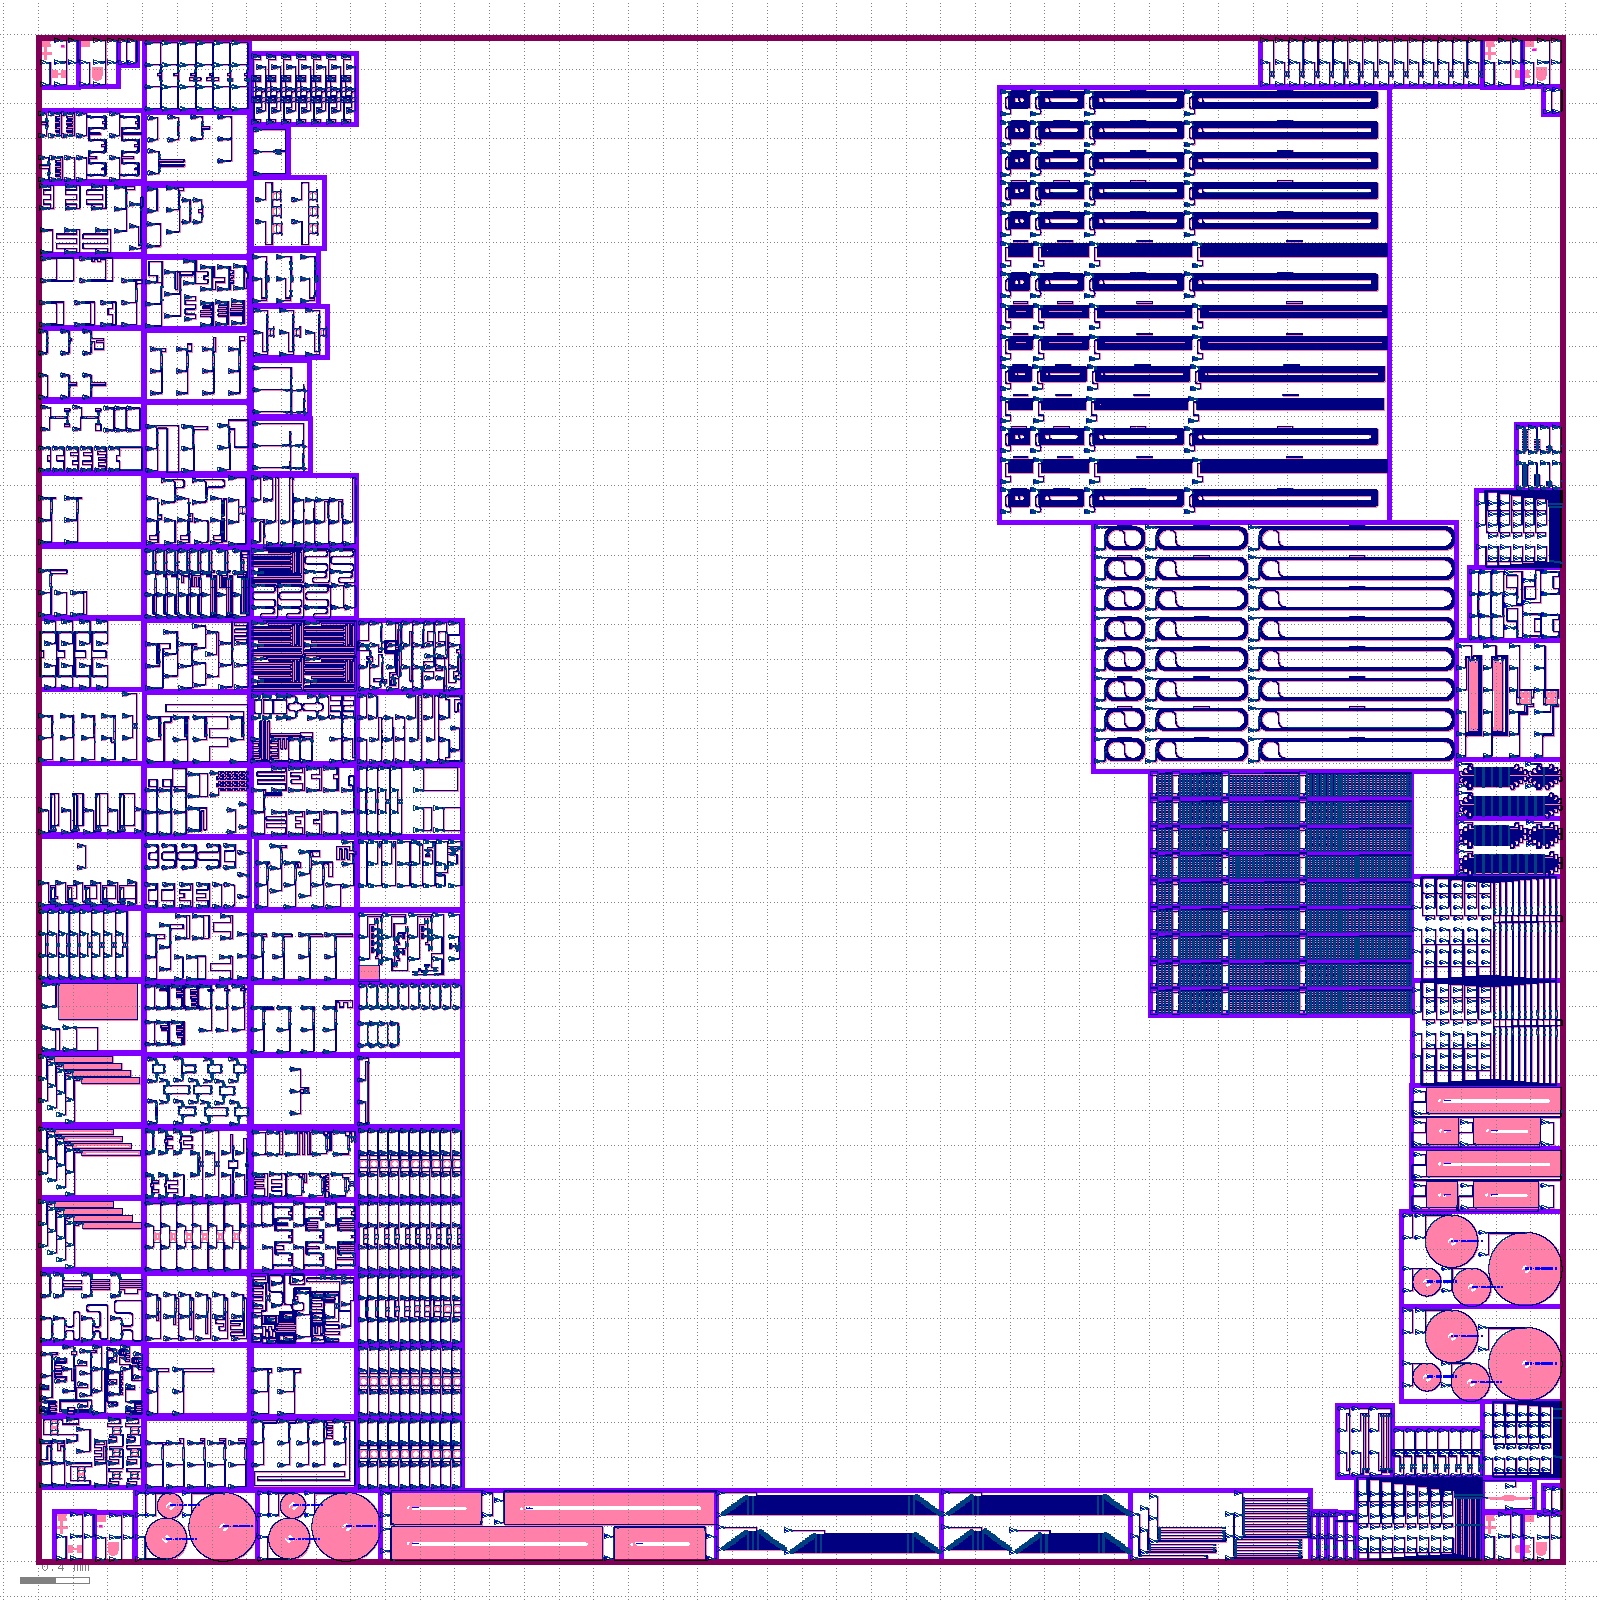
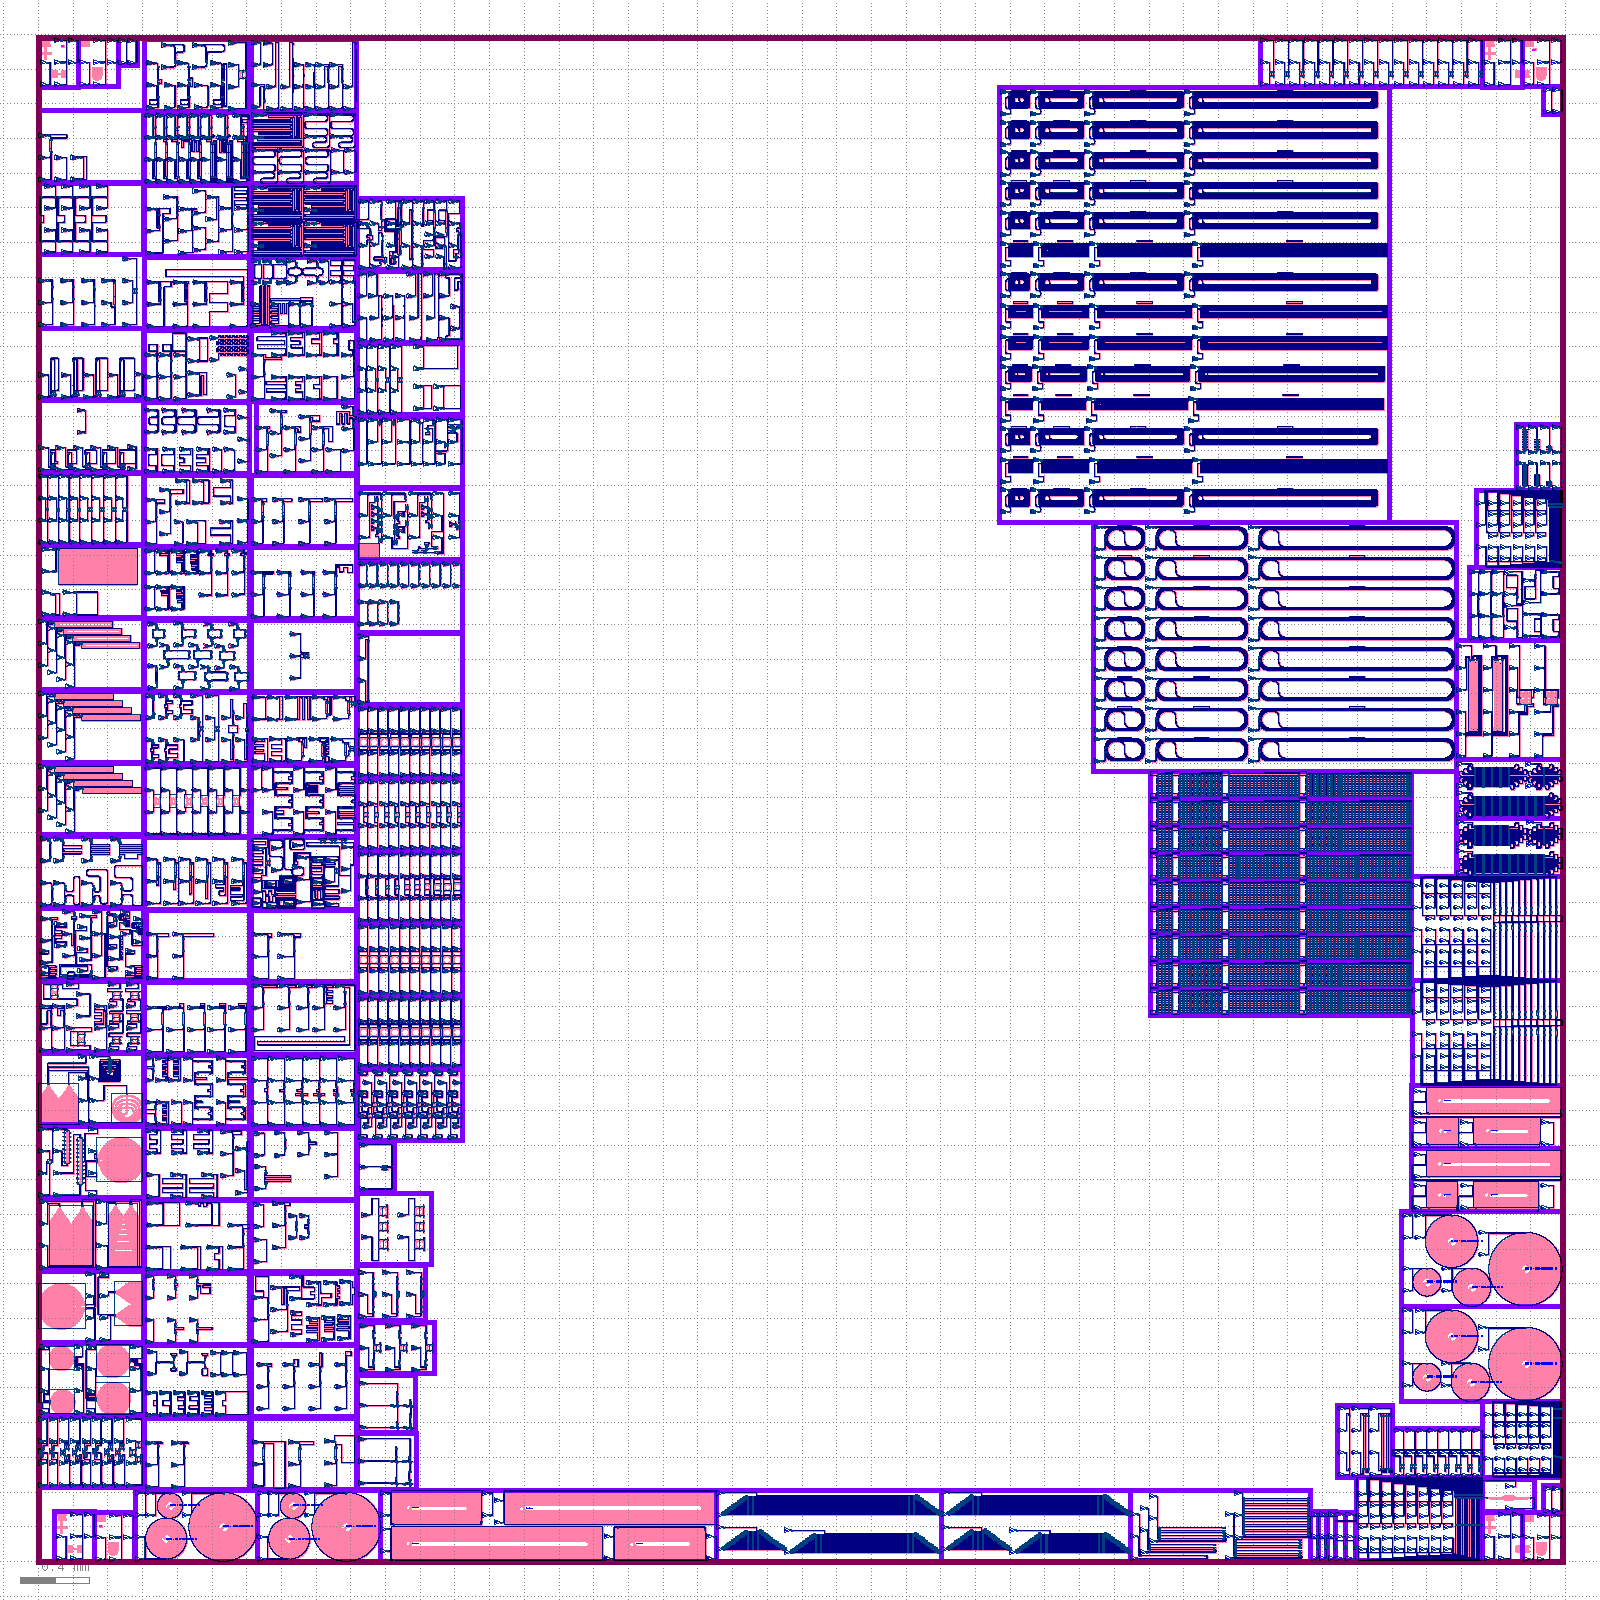
Aggregation layout: https://github.com/SiEPIC/openEBL-2026-05/actions/runs/25899148911/artifacts/7009733359

Changed region(s): [[0.0, 0.0312, 0.3125, 0.9375]]

diff --git a/README.md b/README.md
@@ -91,5 +91,5 @@ Will be added here.
 
 Click on the following link to download the EBeam.oas merged layout file:
 <!-- start-link -->
-https://github.com/SiEPIC/openEBL-2026-05/actions/runs/25898409030/artifacts/7009470644
+https://github.com/SiEPIC/openEBL-2026-05/actions/runs/25899148911/artifacts/7009733359
 <!-- end-link -->